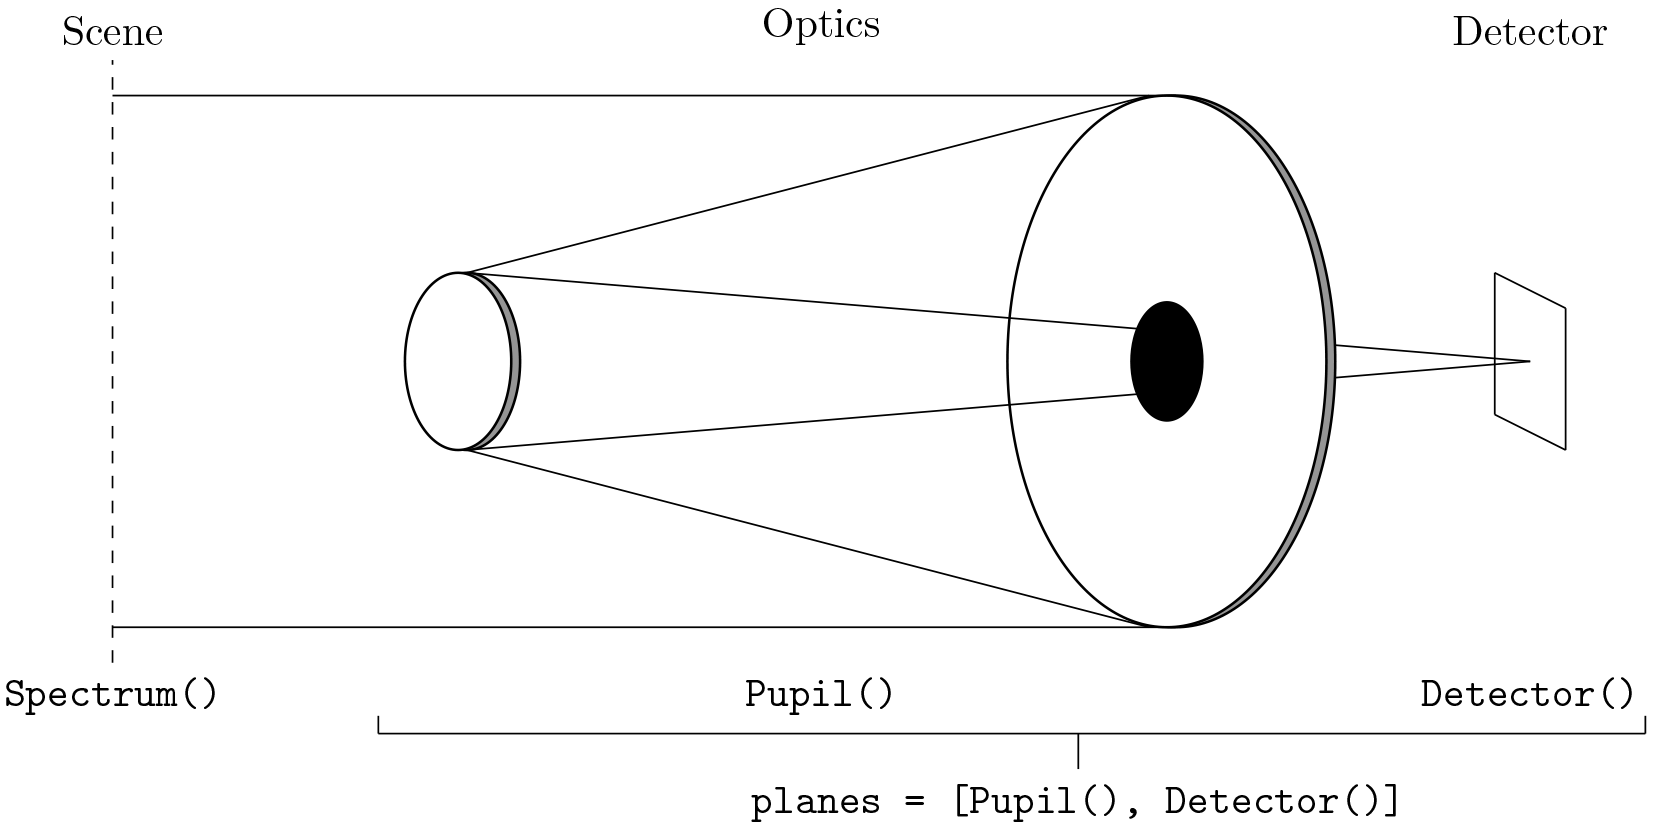
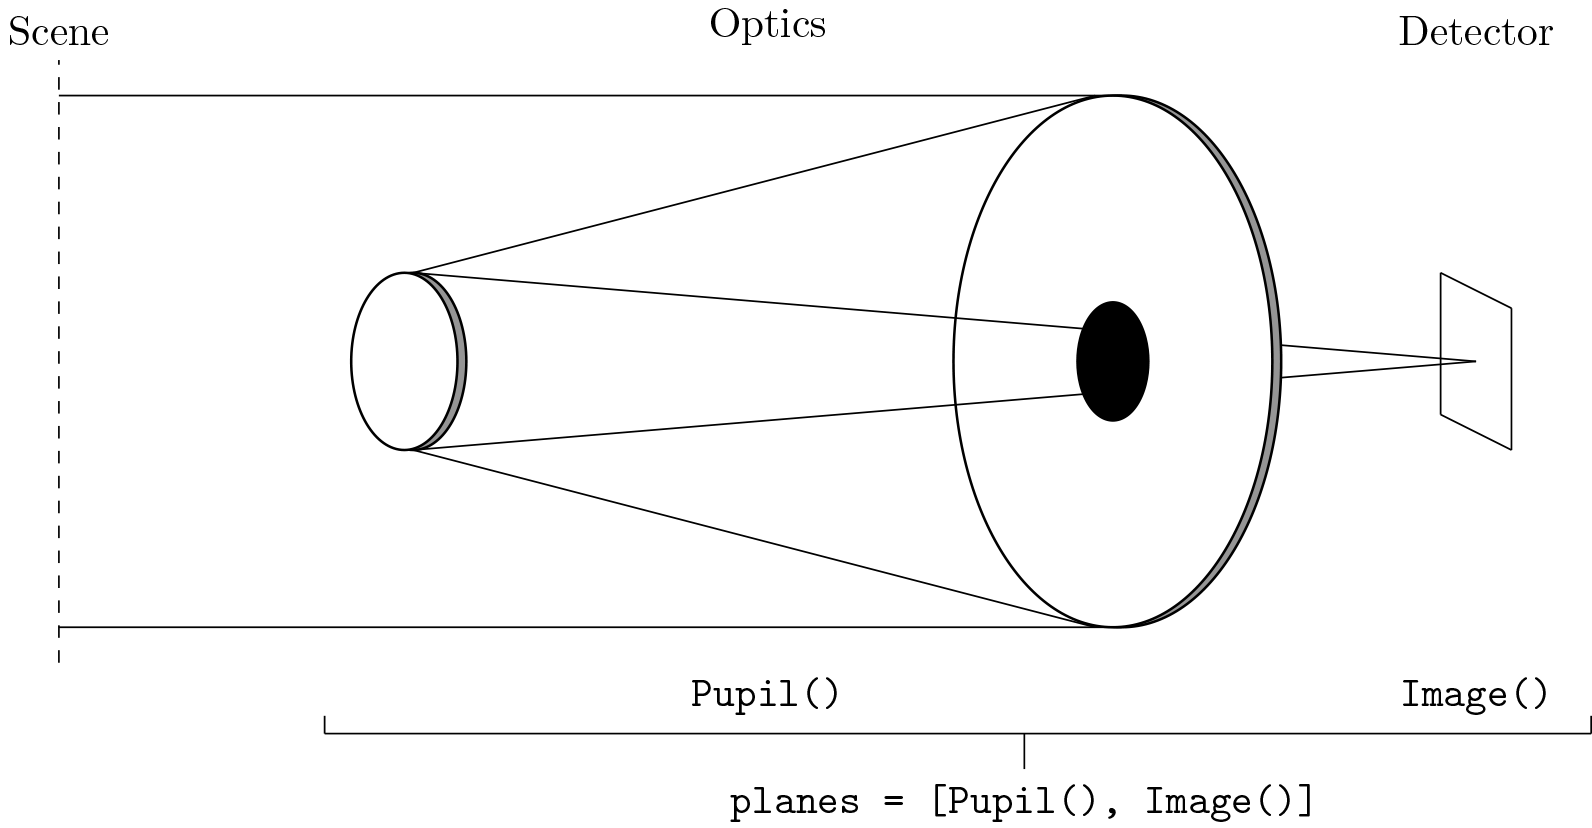
Clean up documentation, remove unused images

diff --git a/docs/_img/python/simple_example.py b/docs/_img/python/simple_example.py
@@ -1,0 +1,29 @@
+import matplotlib.pyplot as plt
+import lentil
+
+mask = lentil.util.circle((256, 256), 128) - lentil.util.circle((256, 256), 128/3)
+opd = lentil.zernike.zernike_compose(mask, coeffs=[0, 0, 0, 300e-9, 50e-9, -100e-9, 50e-9])
+
+pupil = lentil.Pupil(amplitude=mask, phase=opd, diameter=1, focal_length=10,
+                     pixelscale=1/256)
+detector = lentil.Image(pixelscale=5e-6)
+
+psf5 = lentil.propagate([pupil, detector], wave=650e-9, npix=32, oversample=10, rebin=False)
+
+psf = lentil.detector.pixelate(psf5, oversample=10)
+
+plt.imshow(mask)
+plt.savefig('../../_static/img/getting_started_amp.png', transparent=True, bbox_inches='tight', dpi=150)
+plt.close()
+
+plt.imshow(opd)
+plt.savefig('../../_static/img/getting_started_opd.png', transparent=True, bbox_inches='tight', dpi=150)
+plt.close()
+
+plt.imshow(psf5)
+plt.savefig('../../_static/img/getting_started_psf_oversample.png', transparent=True, bbox_inches='tight', dpi=150)
+plt.close()
+
+plt.imshow(psf)
+plt.savefig('../../_static/img/getting_started_psf_detector.png', transparent=True, bbox_inches='tight', dpi=150)
+plt.close()

diff --git a/docs/_img/tikz/telescope.tex b/docs/_img/tikz/telescope.tex
@@ -42,10 +42,10 @@
     \node[align=center, above] at (8,3.2) {Detector}; % (8,2.1) for just above
     \node[align=center, above] at (4,3.2) {Optics};
 
-    \node[align=center, below] at (0,-0.2) {\texttt{Spectrum()}};
-    \node[align=center, below] at (8,-0.2) {\texttt{Detector()}}; % (8,0.9) for just below
+    %\node[align=center, below] at (0,-0.2) {\texttt{Spectrum()}};
+    \node[align=center, below] at (8,-0.2) {\texttt{Image()}}; % (8,0.9) for just below
     \node[align=center, below] at (4.0,-0.2) {\texttt{Pupil()}};
-    \node[align=center, below] at (5.45,-0.8) {\texttt{planes = [Pupil(), Detector()]}};
+    \node[align=center, below] at (5.45,-0.8) {\texttt{planes = [Pupil(), Image()]}};
 \end{tikzpicture}
 
 \end{document}

diff --git a/docs/patterns/matlab/matlab_interface.rst b/docs/patterns/matlab/matlab_interface.rst
@@ -10,25 +10,20 @@ system, and detector:
 
     import lentil
 
-    class TinyInstrument(mo.Instrument):
-        optical_system = TinyOpticalSystem()
-        detector = TinyDetector()
+    class TinyInstrument:
+        def __init__(self):
+            self.pupil = lentil.Pupil(amplitude=lentil.util.circle((256,256), 128),
+                                      diameter=1, focal_length=10, pixelscale=1/256)
+            self.detector = lentil.Image(pixelscale=5e-6)
 
-    class TinyOpticalSystem(mo.SimpleOpticalSystem):
-        diameter = 1
-        focal_length = 8
-        pixelscale = self.diameter/512
-        detector_pixelscale = 5e-6
+        @property
+        def planes(self):
+            return [self.pupil, self.detector]
 
-        def amplitude(self):
-            return le.util.circle((512,512), 256)
-
-    class TinyDetector(mo.FPA):
-        pixelscale = 5e-6
-        shape = (512,512)
-        qe = le.radiometry.Spectrum(wave=[400, 600, 1000], value=[0.4, 0.8, 0.05],\
-                         waveunits='nm', valueunits=None)
-        gain = le.detector.Gain(gain=2.44, saturation_capacity=10000)
+        def propagate(self, wave, weight, npix=1024, oversample=3, rebin=True,
+                      tilt='phase', npix_chip=None):
+            return lentil.propagate(self.planes, wave, weight, npix, npix_chip,
+                                    oversampe, rebin, tilt, flatten=True)
 
 A corresponding MATLAB class that provides an interface to the instrument looks like
 this:
@@ -37,7 +32,7 @@ this:
 
     classdef TinyInstrument < handle
 
-        properties(Hidden):
+        properties(Hidden)
             cls
         end
 
@@ -45,9 +40,42 @@ this:
             function self = TinyInstrument
                 self.cls = py.tiny.TinyInstrument()
             end
+
+            function img = propagate(self, wave, weight, npix, oversample, rebin, tilt, npix_chip)
+                if nargin < 8; npix_chip = py.None; end
+                if nargin < 7; tilt = 'phase'; end
+                if nargin < 6; rebin = true; end
+                if nargin < 5; oversample = 3; end
+                if nargin < 4; npix = 1024; end
+
+                img = ndarray2mat(self.cls.propagate(nparray2mat(wave), nparray2mat(weight),...
+                                  int(npix), int(oversample), rebin, tilt, int(npix_chip));
+            end
+
+        end
+    end
+
+More recent versions of MATLAB (>= 2019b) support optional positional arguments. The
+``propagate`` function can be rewritten to take advantage of this new functionality:
+
+.. code-block:: matlab
+
+    function img = propagate(self, wave, weight, npix, oversample, rebin, tilt, npix_chip)
+        arguments
+            self
+            wave
+            weight
+            npix = 1024
+            oversample = 3
+            rebin = true
+            tilt = 'phase'
+            npix_chip = py.None
         end
 
+        img = ndarray2mat(self.cls.propagate(nparray2mat(wave), nparray2mat(weight),...
+                          int(npix), int(oversample), rebin, tilt, int(npix_chip));
     end
+
 
 The MATLAB interface can be easily packaged up for delivery with the Python model by
 including it in a to-level subdirectory:
@@ -58,14 +86,13 @@ including it in a to-level subdirectory:
     ~/dev/tiny-lentil
     ├── tiny_telescope/
     │   ├── __init__.py
-    │   ├── detector.py
-    │   ├── tiny.py
-    │   ├── pupil.py
+    │   ├── planes.py
     │   ├── radiometry.py
+    │   ├── telescope.py
     │   └── data/
+    │       ├── dwdx.npy
     │       ├── detector_qe.csv
-    │       ├── pupil_mask.npy
-    │       └── sensitivities.npz
+    │       └── pupil_mask.npy
     ├── matlab/
     │   ├── mat2ndarray.m
     │   ├── ndarray2mat.m
@@ -77,4 +104,6 @@ including it in a to-level subdirectory:
     ├── README.md
     └── setup.py
 
-Note the inclusion of ``mat2ndarray.m`` and ``ndarray2mat``.
+
+Note the inclusion of ``mat2ndarray.m`` and ``ndarray2mat`` to handle
+:ref:`data conversion between NumPy and MATLAB<numpy-matlab>`

diff --git a/docs/user_guide/focal_planes.rst b/docs/user_guide/focal_planes.rst
@@ -1,38 +1,35 @@
-************
-Focal Planes
-************
+*************
+Image Sensors
+*************
+Lentil does not provide an end-to-end detector modeling capability, but instead provides
+a :ref:`collection of functions<api-detector>` to help model image sensors and
+represent some of the more commonly encountered noise sources.
 
-Focal Plane Classes
-===================
+Basic Signal Flow
+=================
+For an ideal image sensor, photons striking a pixel during the integration time will
+result in the accumulation of electrons in the pixel well. The electrons in each pixel
+are converted to a voltage (up to some saturation point), amplified, and converted to a
+digital signal by an ADC.
 
-Quantum Efficiency and Gain
-===========================
+Input signal
+------------
 
-
-Dark Current
-============
-
-
-Random Noise Sources
-====================
-
-
-
-Fixed Pattern Noise
-===================
+Charge collection
+-----------------
 
 
-
-Defects and Cosmic Rays
-=======================
-
-Subclassing FPA
-===============
+Pixel effects
+-------------
 
 
-Lentil's `detector <../api.html#detector>`_  module provides classes for representing
-both panchromatic and multispectral (Bayer) imaging sensors and many of their common
-noise sources including
+Analog to digital conversion
+----------------------------
+
+
+
+Noise
+=====
 
 * Shot noise due to randomness in the arrival and detection of photons
 * The conversion of photons into electrons (quantum efficiency)
@@ -42,18 +39,6 @@ noise sources including
 * Pixel defects like hot or dead pixels, and other imaging artifacts like cosmic ray
   strikes
 
-The :class:`~lentil.detector.FPA` class is the base class for building models of
-panchromatic imaging sensors. This class implements mathematical models of both single
-pixels and the entire array of pixels. These models are used together to simulate a
-digital image (including noise) produced by the imaging sensor given some photon flux.
-
-Signal Flow
-===========
-The full signal flow through Lentil's FPA model is depicted in the figure below.
-
-.. image:: ../_static/img/detector_model.png
-    :width: 800px
-    :align: center
 
 The signal can be split into two primary groups:
 
@@ -71,36 +56,4 @@ detector. These noise sources can be broadly classified into two groups:
   pattern noise can be thought of as a characteristic of the detector
 * Temporal noise varies from frame to frame and typically represents random processes in t
   he detection and readout of an image
-
-An Ideal Imaging Sensor
-=======================
-In the ideal (noise-free) case, every photon that strikes a pixel will result in the
-accumulation of an electron in the pixel well (QE = 1). The electrons in each pixel are
-converted to a voltage (up to some saturation point), amplified, and converted to a
-digital signal by an ADC. If we assume this process is linear, it can be described by a
-single gain term relating electrons to DN.
-
-The simplest functional model requires the definition of a few basic sensor attributes:
-
-* Pixel size
-* Quantum efficiency
-* The conversion gain from e- to DN
-* The saturation capacity of a single pixel in e-
-
-The model below provides a sample implementation of the ideal imaging sensor described
-above
-
-.. code-block:: python3
-
-    import lentil
-
-    class IdealFPA(lentil.FPA):
-        def __init__(self):
-            self.pixelscale = (5e-6, 5e-6)
-            self.qe = 1
-            self.gain = lentil.detector.Gain(gain=25, saturation_capacity=10000)
-
-
-Constructing a photon flux array
---------------------------------
 

diff --git a/docs/basics.rst b/docs/basics.rst
@@ -48,3 +48,75 @@ list below summarizes the general organization of Lentil's public namespace:
 
 A Simple Example
 ================
+In this short example, we'll walk through the steps to develop a very simple Lentil
+model of an imaging system with a single pupil and image plane. The imaging system
+has a 1m diameter primary mirror, a secondary mirror obscuration of 0.33m centered over
+the primary, a focal length of 10m, and a focal plane with 5um pixels.
+
+.. image:: _static/img/telescope.png
+    :width: 650 px
+    :align: center
+
+First, we'll import Lentil and matplotlib:
+
+.. code-block:: pycon
+
+    >>> import matplotlib.pyplot as plt
+    >>> import lentil
+
+Now we can define the system amplitude and plot it:
+
+.. code-block:: pycon
+
+    >>> amplitude = lentil.util.circle(shape=(256, 256), radius=128) -
+    ...             lentil.util.circle(shape=(256, 256), radius=128/3)
+    >>> plt.imshow(amplitude)
+
+.. image:: _static/img/getting_started_amp.png
+    :width: 350px
+
+We'll create some Zernike-based wavefront error:
+
+.. code-block:: pycon
+
+    >>> coeffs = [0, 0, 0, 300e-9, 50e-9, -100e-9, 50e-9]
+    >>> opd = lentil.zernike.zernike_compose(mask=amplitude, coeffs=coeffs)
+    >>> plt.imshow(opd)
+
+.. image:: _static/img/getting_started_opd.png
+    :width: 350px
+
+Next we'll define the system's pupil and image planes. Note that the
+:attr:`~lentil.Pupil.pixelscale` attribute represents the physical sampling of each
+pixel in the pupil (in meters/pixel). Because our amplitude has a diameter of 256 pixels
+and the system diameter was specified as 1m, the pixelscale is 1/256.
+
+.. code-block:: pycon
+
+    >>> pupil = lentil.Pupil(amplitude=amplitude, phase=opd, diameter=1, focal_length=10,
+    ...                      pixelscale=1/256)
+    >>> detector = lentil.Image(pixelscale=5e-6)
+
+We will propagate 650nm light through the system and view the PSF oversampled by a
+factor of 10. Note that we have to set the ``rebin`` flag to False to return the
+oversampled PSF.
+
+.. code-block:: pycon
+
+    >>> psf = lentil.propagate(planes=[pupil, detector], wave=650e-9, npix=32,
+    ...                        oversample=10, rebin=False)
+    >>> plt.imshow(psf)
+
+.. image:: _static/img/getting_started_psf_oversample.png
+    :width: 350px
+
+Finally, we will rescale the oversampled image to native sampling and include the
+blurring effects of the pixel MTF:
+
+.. code-block:: pycon
+
+    >>> img = lentil.detector.pixellate(psf, oversample=10)
+    >>> plt.imshow(img)
+
+.. image:: _static/img/getting_started_psf_detector.png
+    :width: 350px

diff --git a/docs/user_guide/matlab.rst b/docs/user_guide/matlab.rst
@@ -74,6 +74,7 @@ using Lentil in MATLAB, be sure that you you have
 :ref:`configured MATLAB to use the correct version of Python installed on your system
 <configuring-matlab>`
 
+.. _numpy-matlab:
 
 Working with NumPy Arrays in MATLAB
 -----------------------------------
